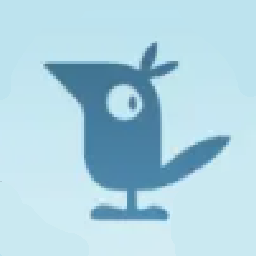
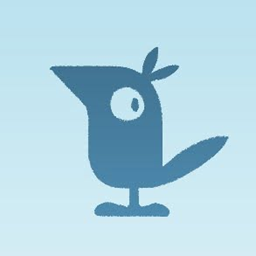
Okkle update

diff --git a/ArtistData.js b/ArtistData.js
@@ -1564,7 +1564,7 @@ var artists = [
         name : "Okkle", 
         imageNameOverride: "",
         uniqueId: "OKKL",
-        url: "",
+        url: "https://www.artstation.com/okkle",
         redraws: ['PIKM']
     },
 	{